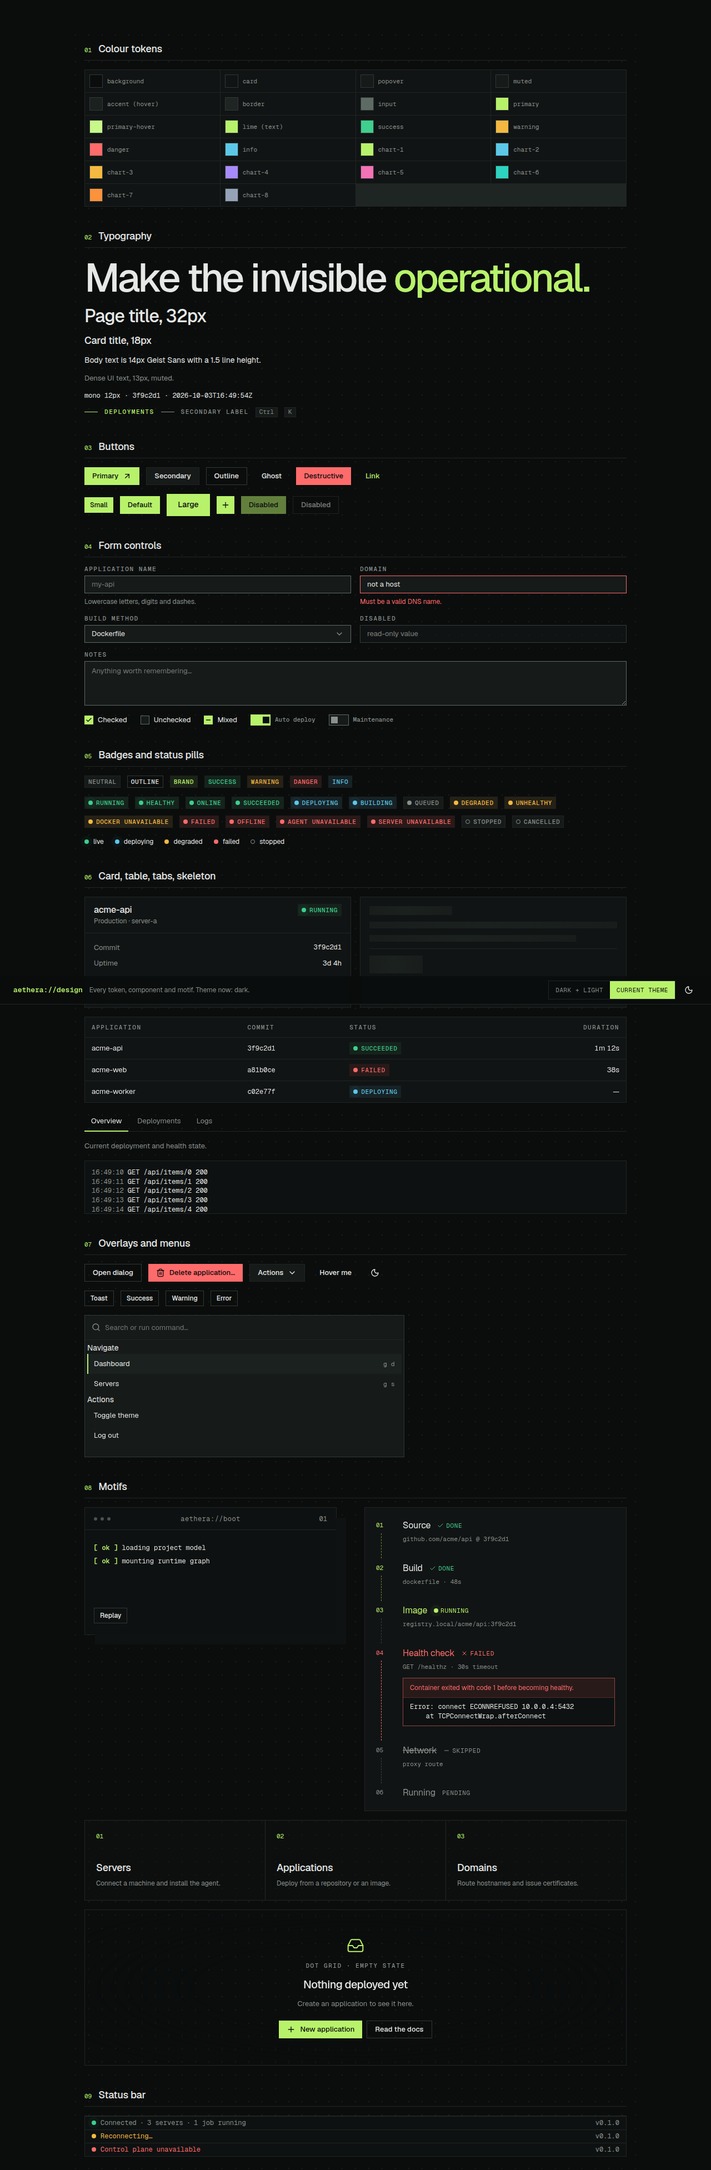
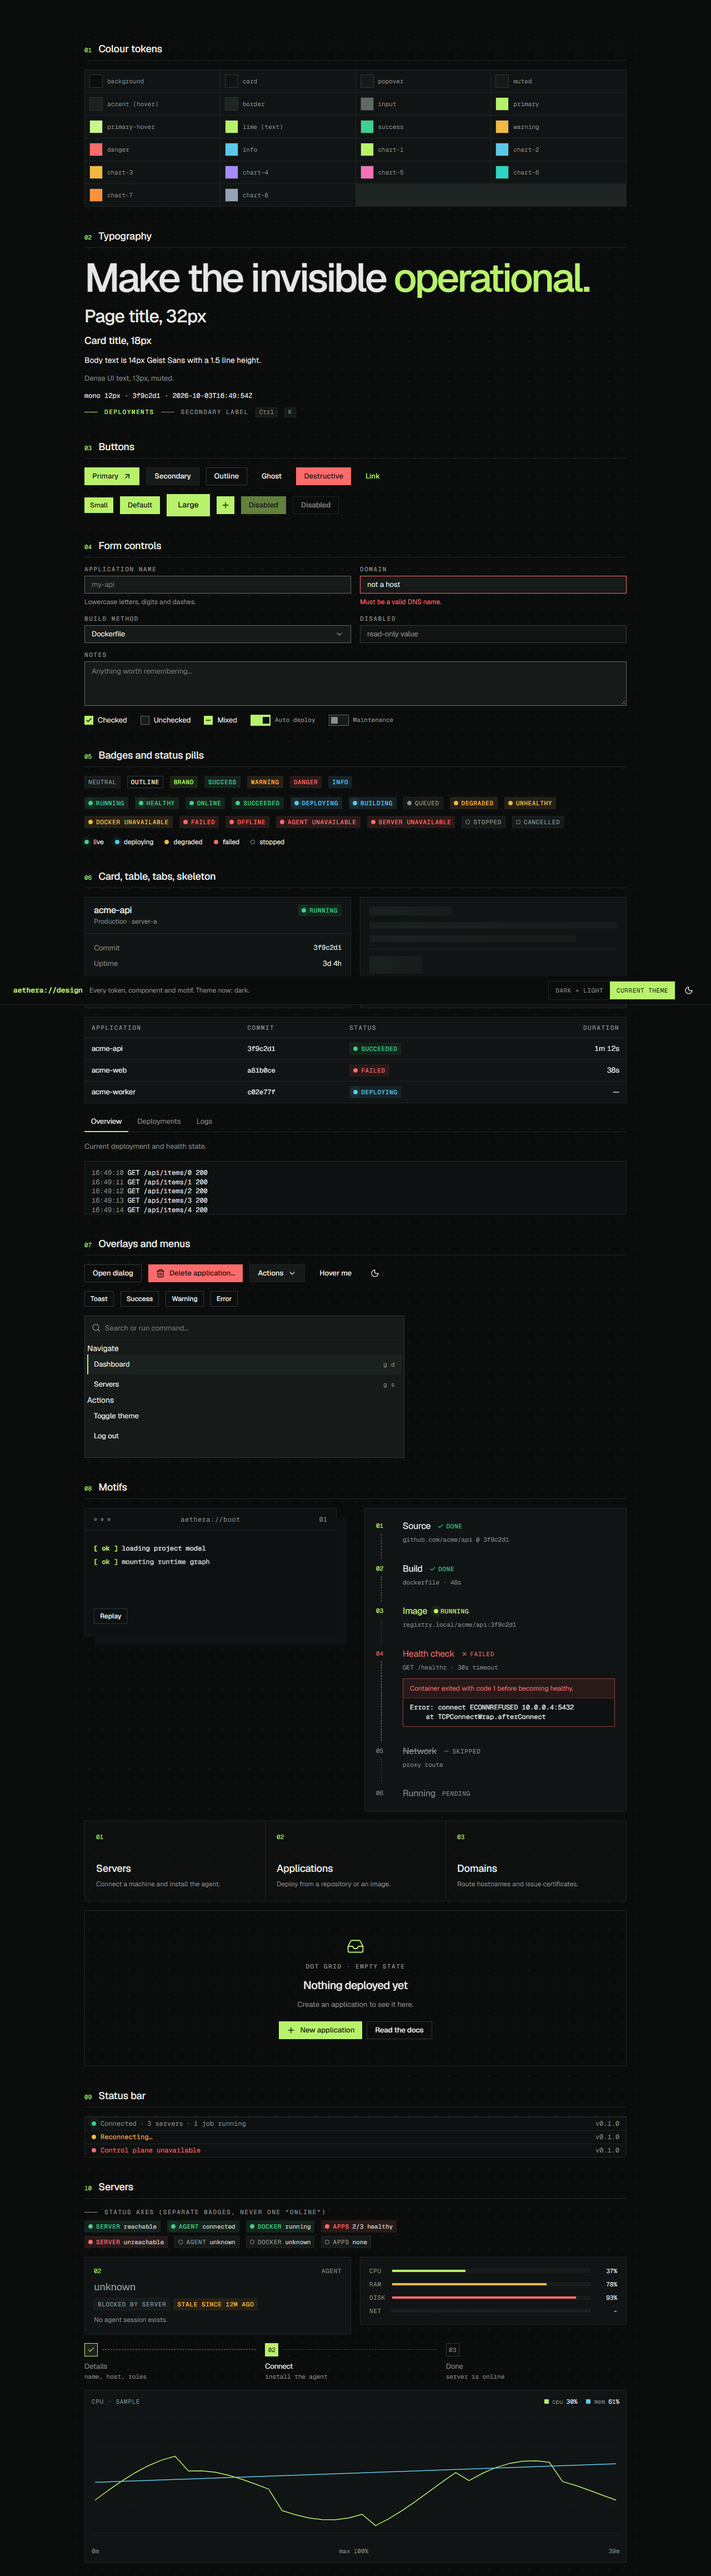
feat(web): server page screenshots with a mocked API, token panel layout fix, stable job test

diff --git a/src/web/src/components/servers/job-progress.test.tsx b/src/web/src/components/servers/job-progress.test.tsx
@@ -6,14 +6,21 @@ import { JobProgress } from "./job-progress";
 
 describe("JobProgress", () => {
   it("follows a job until it succeeds, then stops polling and reports it", async () => {
+    // The second poll waits for the gate, so the queued state stays on screen long enough to assert.
+    let release!: () => void;
+    const gate = new Promise<void>((r) => (release = r));
     const job = vi
       .fn()
       .mockResolvedValueOnce(makeJob({ status: "queued", queuePosition: 2 }))
-      .mockResolvedValueOnce(makeJob({ status: "running" }))
+      .mockImplementationOnce(async () => {
+        await gate;
+        return makeJob({ status: "running" });
+      })
       .mockResolvedValue(makeJob({ status: "succeeded" }));
     const onFinished = vi.fn();
     render(<JobProgress jobId="abcdef12-0000" label="Prune Docker resources" api={fakeApi({ job })} intervalMs={10} onFinished={onFinished} />);
     expect(await screen.findByText(/position 2 in queue/i)).toBeInTheDocument();
+    release();
     await waitFor(() => expect(onFinished).toHaveBeenCalledTimes(1));
     expect(onFinished.mock.calls[0][0].status).toBe("succeeded");
     expect(screen.getByText("Succeeded")).toBeInTheDocument();

diff --git a/src/web/src/components/servers/server-detail-view.tsx b/src/web/src/components/servers/server-detail-view.tsx
@@ -126,7 +126,7 @@ export function ServerDetailView({ api = serversApi, id: idProp }: { api?: Serve
                 {r}
               </Badge>
             ))}
-            <Badge tone="neutral">{s.transport}</Badge>
+            <Badge tone="neutral">via {s.transport}</Badge>
             {s.lifecycle !== "active" && <Badge tone="warning">{s.lifecycle}</Badge>}
             {s.agentVersion && <span className="font-mono text-2xs">agent {s.agentVersion}</span>}
           </span>

diff --git a/src/web/src/components/servers/join-token-panel.tsx b/src/web/src/components/servers/join-token-panel.tsx
@@ -44,7 +44,7 @@ export function JoinTokenPanel({
   }, [expired]);
 
   return (
-    <TerminalCard path="servers/join" label={expired ? "EXPIRED" : "ONE-TIME"} className="w-full">
+    <TerminalCard path="servers/join" label={expired ? "EXPIRED" : "ONE-TIME"}>
       <div className="grid gap-4 font-sans">
         <p className="flex items-start gap-2 text-xs text-warning">
           <KeyRoundIcon className="mt-0.5 size-3.5 shrink-0" aria-hidden="true" />

diff --git a/src/web/src/components/servers/servers-view.tsx b/src/web/src/components/servers/servers-view.tsx
@@ -105,7 +105,7 @@ export function ServerRow({ row, now }: { row: ServerRowData; now: Date }) {
               {r}
             </Badge>
           ))}
-          <Badge tone="neutral">{server.transport}</Badge>
+          <Badge tone="neutral">via {server.transport}</Badge>
           {server.lifecycle !== "active" && <Badge tone="warning">{server.lifecycle}</Badge>}
         </div>
       </div>
